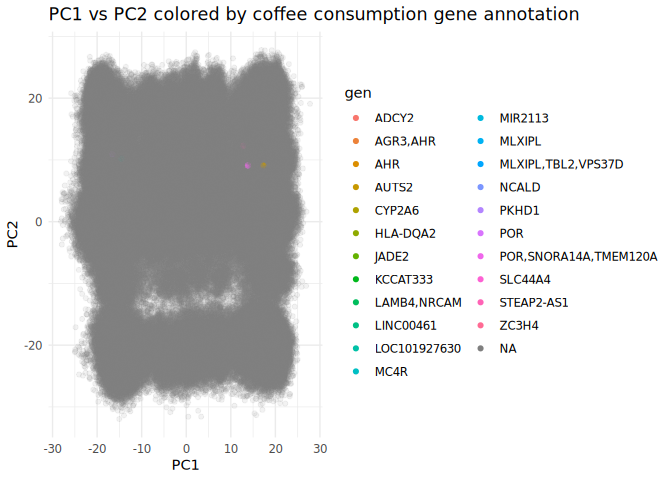
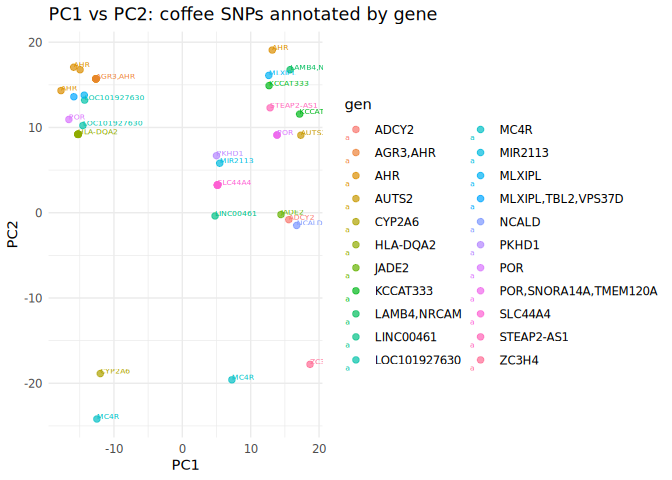
funy things

diff --git a/README.md b/README.md
@@ -26,7 +26,7 @@ library(ggplot2)
 # Use OpenRemoteParquetView to inspect the first few rows
 OpenRemoteParquetView()
 #> # Source:   table<embeddings> [?? x 6]
-#> # Database: DuckDB 1.4.0 [root@Linux 6.8.0-78-generic:R 4.5.1//tmp/Rtmplge4aR/file888746b426b61.duckdb]
+#> # Database: DuckDB 1.4.0 [root@Linux 6.8.0-78-generic:R 4.5.1//tmp/RtmpzD8owR/file88c3743bd89b3.duckdb]
 #>    chrom pos       ref_UKB alt_UKB rsid       embedding    
 #>    <chr> <chr>     <chr>   <chr>   <chr>      <list>       
 #>  1 5     148899362 T       G       rs4705280  <dbl [3,072]>
@@ -51,7 +51,7 @@ CopyParquetToDuckDB(db_path = "local_embeddings.duckdb", overwrite = FALSE)
 )
 #> Database file 'local_embeddings.duckdb' already exists. Skipping copy.
 #>    user  system elapsed 
-#>   0.028   0.003   0.029
+#>   0.027   0.006   0.029
 file.info("local_embeddings.duckdb")$size
 #> [1] 12106084352
 ```
@@ -68,7 +68,7 @@ overwrite = FALSE)
 #> local_embeddings.houba.desc already exists.
 #> Using existing houba file and info data.
 #>    user  system elapsed 
-#>   0.578   0.037   0.572
+#>   0.562   0.044   0.568
 houba
 #> Houba mmatrix file: local_embeddings.houba 
 #> Embeddings (houba::mmatrix):
@@ -109,7 +109,7 @@ system.time(
 #> Dimensions: 616386 x 3072
 #> Running PCA with center=TRUE, scale=TRUE, ncomp=15
 #>    user  system elapsed 
-#> 356.178 115.111  55.185
+#> 361.381 112.571  57.173
 ```
 
 ## 5. Get PCA scores
@@ -157,13 +157,16 @@ plotDf <- plotDf |>
 # Set alpha = 0 for NA genes, 0.7 otherwise
 plotDf$plot_alpha <- ifelse(is.na(plotDf$gen), 0, 0.7)
 
-# Plot: NA genes are fully transparent
+# Plot: coffee SNPs only, with gene annotation labels
+coffee_snps <- subset(plotDf, !is.na(gen))
 
-ggplot(plotDf, aes(x = PC1, y = PC2, color = gen, alpha = plot_alpha)) +
-  geom_point() +
-  labs(title = "PC1 vs PC2 colored by coffee consumption gene annotation") +
-  theme_minimal() +
-  guides(alpha = "none")
+p <- ggplot(coffee_snps, aes(x = PC1, y = PC2, color = gen)) +
+  geom_point(size = 2, alpha = 0.7) +
+  labs(title = "PC1 vs PC2: coffee SNPs annotated by gene") +
+  theme_minimal()
+
+# Add text labels for gene annotation
+p + geom_text(aes(label = gen), hjust = 0, vjust = 0, size = 2, check_overlap = TRUE)
 ```
 
 <img src="docs/README-unnamed-chunk-9-1.png" width="100%" />
